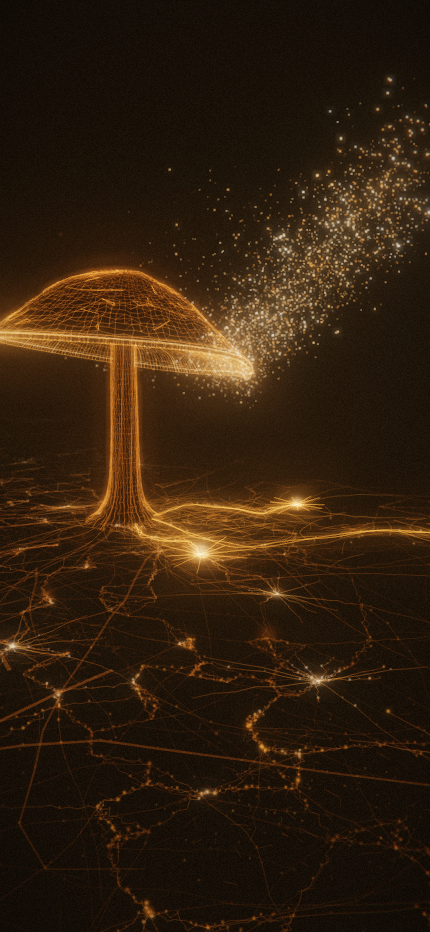
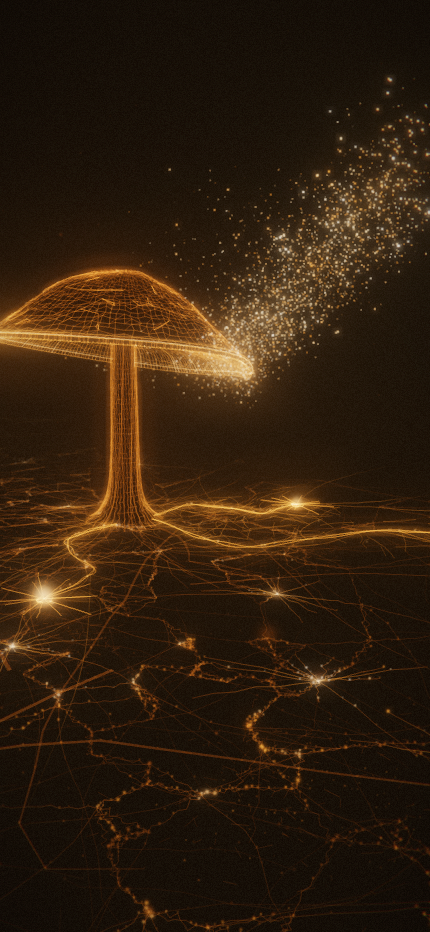
Hannah's three: ADOS goes left, the arrival becomes one arc, the descent one zoom-out
1. ADOS hub moved LEFT of the mushroom (her mockup): world (2.50, gy, 0.25)
   -> (2.45, gy, 2.85), departure azimuth 0.20 -> 0.86 — the primary route
   now runs out of the base past the left of the stem into the lower-left
   ground field. Route id, braid language, spokes, knot unchanged; hover,
   pulses and the lens focal handoff follow the geometry. Chip clears the
   copy by 70 px at 1280x800 and 91 px at 1440x900; in portrait the hub
   projects inside the copy block, so ADOS anchors per-orientation now
   (route-t 0.25, the Discord precedent) — in-frame, 31 px above the copy.

2. Mission->Inspire is ONE arc: arrival() no longer stages pin (s<0.22),
   constant radius, then push-in (s>0.80) — azimuth keeps its trapezoid +
   windowed breath, and radius/height/fov ride the SAME trapezoid while the
   gaze bows through the old PIN on a quadratic bezier. Dead band and both
   rest poses exact (mission + inspire goldens byte-identical); azimuth
   strictly monotonic. Peak gaze-yaw 557 -> 469 deg/p (~39 -> ~33 deg/s at
   ordinary scroll), peak pitch 117 -> 18 deg/p — the pin's nod is gone.

3. Inspire->Connect is one monotonic zoom-out: the exit keys no longer push
   in toward the stream (r 9.1 -> 5.6) before Connect widens back out.
   Subject distance now grows 8.11 -> 8.32 -> 8.48 -> 8.83 -> 9.32 -> 9.64
   -> 9.82 and fov 38 -> 56, strictly monotone in landscape, while the gaze
   slides off the cap down to the ground network. The portrait field key at
[…]

Changed region(s): [[0.0, 0.529, 0.9372, 0.6845], [0.9372, 0.5601, 1.0, 0.5912]]

diff --git a/journey/chapters/inspire/camera.js b/journey/chapters/inspire/camera.js
@@ -8,8 +8,11 @@
 //            visible spore stream. Authored in GESTURE-LOCAL u (0 = the
 //            mission rest / hero pose, 1 = the Inspire rest); the composer
 //            maps global p over [0 .. restProgress('inspire')] onto u.
-//            Gesture qualities (frozen at G2a/D16 review): no roll, early
-//            target pin, constant radius, gentle push-in in the last 20%.
+//            Gesture qualities (re-shaped 2026-08-04, Hannah: "one smooth
+//            arc"): no roll, and radius / height / fov / target all evolve
+//            TOGETHER with the azimuth swing on one shared trapezoid ease —
+//            no early target pin, no deferred push-in, no phase change
+//            anywhere between the hero pose and the Inspire rest.
 //
 //   keys     the rest hold + rest drift + the first exit-follow key, in
 //            LEG-LOCAL t over the chapter's route span (0.14..0.38 on the
@@ -30,10 +33,12 @@ const V = (x, y, z) => new THREE.Vector3(x, y, z);
 // stream stays in frame essentially the whole leg.
 export const INSPIRE = { az: 78 * DEG, r: 9.1, y: 3.25, target: V(1.15, 3.95, -0.40), fov: 38 };
 
-const SWING_Y = 2.9;              // Plate II: "cam y 2.25 -> ~2.9"
-const PIN = V(0.5, 3.4, -0.1);    // cap lock, biased a touch toward the stream
-                                  // side so the visible plume never leaves frame
-const PUSH_START = 0.80;          // the push-in lives ONLY in the last 20%
+// The gaze's mid-swing waypoint (was the old "early pin" target): the cap,
+// biased a touch toward the stream side so the visible plume never leaves
+// frame. Since the one-arc re-shape (2026-08-04) it is the CONTROL POINT of
+// a quadratic bezier hero.target -> INSPIRE.target — the gaze bows through
+// the cap continuously instead of locking onto it in the first 22%.
+const PIN = V(0.5, 3.4, -0.1);
 
 // Dead band at the head of the gesture: below this fraction of the arrival
 // the camera IS the hero pose exactly — what makes #/mission and a cold load
@@ -71,8 +76,6 @@ function azEase(s) {
     + ORBIT_BREATH.amp * Math.sin(2 * Math.PI * ORBIT_BREATH.cycles * s) * w;
 }
 
-const _ot = new THREE.Vector3();
-
 /** The arrival gesture. `u` is gesture-local (0 = mission rest, 1 = the
  *  Inspire rest); `hero` is the LIVE hero pose of whatever responsive
  *  composition booted (injected by the composer — the orbit must start from
@@ -80,16 +83,26 @@ const _ot = new THREE.Vector3();
 function arrival(u, out, hero) {
   let s = (u - ARRIVAL_DEAD) / (1 - ARRIVAL_DEAD);
   if (s < 0) s = 0;
+  // ONE shared progression (2026-08-04 re-shape): the azimuth keeps its
+  // trapezoid + windowed orbit-breath (azEase — strictly monotonic, breath
+  // zeroed at both ends), and radius, height, fov and gaze all ride the SAME
+  // trapezoid (trapEase, no breath — the dolly must not wobble). Position
+  // and gaze turn together the whole way: no pin phase, no push phase.
   const e = azEase(s);
+  const m = trapEase(s);
   const az = hero.az + (INSPIRE.az - hero.az) * e;
-  const pin = smooth01(s / 0.22);                              // target locks on the cap early
-  const push = smooth01((s - PUSH_START) / (1 - PUSH_START));  // deferred push-in
-  const lift = smooth01((s - 0.06) / 0.58);                    // gentle rise to swing height
-  const r = hero.r + (INSPIRE.r - hero.r) * push;              // CONSTANT radius until s = 0.8
-  const y = hero.y + (SWING_Y - hero.y) * lift + (INSPIRE.y - SWING_Y) * push;
+  const r = hero.r + (INSPIRE.r - hero.r) * m;
+  const y = hero.y + (INSPIRE.y - hero.y) * m;
   out.pos.set(Math.sin(az) * r, y, Math.cos(az) * r);
-  out.target.copy(_ot.lerpVectors(hero.target, PIN, pin).lerp(INSPIRE.target, push));
-  out.fov = hero.fov + (INSPIRE.fov - hero.fov) * push;
+  // Gaze: quadratic bezier hero.target -> INSPIRE.target bowed through PIN
+  // (the cap) — C1-continuous, endpoints exact, the plume framed mid-swing.
+  const w0 = (1 - m) * (1 - m), w1 = 2 * m * (1 - m), w2 = m * m;
+  out.target.set(
+    w0 * hero.target.x + w1 * PIN.x + w2 * INSPIRE.target.x,
+    w0 * hero.target.y + w1 * PIN.y + w2 * INSPIRE.target.y,
+    w0 * hero.target.z + w1 * PIN.z + w2 * INSPIRE.target.z,
+  );
+  out.fov = hero.fov + (INSPIRE.fov - hero.fov) * m;
   return out;
 }
 
@@ -104,15 +117,16 @@ export const CAMERA = {
   arrivalName,
   // --- INSPIRE rest, and the drift that holds it (D16 restage: the rest is
   //     on the STREAM side, az ~78 deg — pos = (sin az, ., cos az) * r) ---
-  // then: follow ONE plume backward + downward toward its release rim
-  // (GB-2.1, re-keyed for D16) — the guide plume is ArtCompute, the hero's
-  // own visible stream (cap az ~5.83, rim release ~(1.97, 3.0, -0.95)): the
-  // path descends along the stream toward its release point, so the cap
-  // climbs the frame and occludes the sky exactly as before, just from the
-  // stream side. (The descent continues in connect/camera.js.)
+  // then: ONE continuous widening toward the Connect ground rest (re-keyed
+  // 2026-08-04, Hannah: the old exit pushed IN toward the stream, r 9.1 ->
+  // ~5.6, and Connect pulled back OUT again — a felt zoom-in-then-out).
+  // From the rest the camera now sinks and recedes in a single monotone
+  // zoom-out: camera-to-subject distance and fov only ever grow, and the
+  // gaze slides off the cap down the stem toward the ground as the descent
+  // proceeds. (The widening continues seamlessly in connect/camera.js.)
   keys: [
-    { t: 0.5,                pos: V(8.901, 3.25, 1.892), tgt: V(1.15, 3.95, -0.40), fov: 38,   hold: true, note: 'inspire-rest' },   // p 0.260
-    { t: 0.7166666666666667, pos: V(8.300, 3.22, 1.500), tgt: V(1.30, 3.80, -0.50), fov: 38.5, note: 'inspire-rest-drift' },         // p 0.312
-    { t: 0.9249999999999999, pos: V(5.600, 3.05, 0.550), tgt: V(1.70, 3.30, -0.75), fov: 42 },                                       // p 0.362
+    { t: 0.5,                pos: V(8.901, 3.25, 1.892), tgt: V(1.15, 3.95, -0.40), fov: 38,   hold: true, note: 'inspire-rest' },   // p 0.260  d 8.11
+    { t: 0.7166666666666667, pos: V(8.950, 3.18, 2.150), tgt: V(1.10, 3.75, -0.55), fov: 39.5, note: 'inspire-rest-drift' },         // p 0.312  d 8.32
+    { t: 0.9249999999999999, pos: V(8.550, 2.95, 2.850), tgt: V(0.95, 2.90, -0.90), fov: 44 },                                       // p 0.362  d 8.48
   ],
 };

diff --git a/journey/chapters/connect/camera.js b/journey/chapters/connect/camera.js
@@ -2,16 +2,20 @@
 // legs; the director composes them per route.js).
 //
 // GROUND RESTAGE (16-connect-ground-restage.md §5): the leg no longer slips
-// under the rim into the gill chamber. From inspire/camera.js's last key
-// (p 0.362: pos (5.6, 3.05, 0.55), tgt (1.7, 3.3, -0.75), fov 42) the camera
-// sinks and widens OUTSIDE the rim to ground level, the gaze sliding off the
-// cap down the stem to the base and out across the ground as the network
-// starts to grow. The rest is the panoramic frame of doc §3: mushroom wholly
-// visible on the left third, the tendril network across the lower/middle
-// right two-thirds, camera low, gentle downward gaze. The exit follows the
-// tendrils home toward the trunk, ending near owned/camera.js's (re-authored)
-// entry — the cleanest narrative joint in the ride: after watching the
-// surface network, the camera follows it to the root and dives underground.
+// under the rim into the gill chamber. Re-keyed 2026-08-04 (Hannah: the
+// Inspire->Connect travel must read as ONE monotonic zoom-out): from
+// inspire/camera.js's last key (p 0.362: pos (8.55, 2.95, 2.85), tgt
+// (0.95, 2.9, -0.9), fov 44) the camera keeps receding and sinking OUTSIDE
+// the rim — camera-to-subject distance and fov only ever grow from the
+// Inspire rest to the Connect rest, no re-approach anywhere — while the
+// gaze slides off the cap down the stem to the base and out across the
+// ground as the network starts to grow. The rest is the panoramic frame of
+// doc §3: mushroom wholly visible on the left third, the tendril network
+// across the lower/middle right two-thirds, camera low, gentle downward
+// gaze. The exit follows the tendrils home toward the trunk, ending near
+// owned/camera.js's (re-authored) entry — the cleanest narrative joint in
+// the ride: after watching the surface network, the camera follows it to
+// the root and dives underground.
 //
 // Keys are authored in LEG-LOCAL t over the chapter's route span (0.38..0.60
 // on the shipped route; global p in comments) — never in global p, so
@@ -22,14 +26,15 @@ const V = (x, y, z) => new THREE.Vector3(x, y, z);
 
 export const CAMERA = {
   keys: [
-    // --- descent OUTSIDE the rim: sinking, widening, the gaze walking down
-    //     the stem toward the base; the first tendrils leave the base in
-    //     frame as the growth window opens (leg t 0.10) ---
-    { t: 0.13636363636363624, pos: V(6.000, 2.78, 1.900), tgt: V(1.05, 2.60, -0.90), fov: 47 },                                      // p 0.410
-    { t: 0.30000000000000004, pos: V(6.800, 2.52, 2.900), tgt: V(0.75, 1.55, -1.50), fov: 51 },                                      // p 0.446
-    { t: 0.409090909090909,   pos: V(7.350, 2.42, 3.700), tgt: V(0.55, 0.80, -2.05), fov: 54 },                                      // p 0.470
+    // --- descent OUTSIDE the rim: one continuous widening from the Inspire
+    //     rest (monotone subject-distance + fov — no re-approach), the gaze
+    //     walking down the stem toward the base; the first tendrils leave
+    //     the base in frame as the growth window opens (leg t 0.10) ---
+    { t: 0.13636363636363624, pos: V(8.200, 2.72, 3.300), tgt: V(0.75, 1.90, -1.35), fov: 48 },                                      // p 0.410  d 8.83
+    { t: 0.30000000000000004, pos: V(7.950, 2.55, 3.700), tgt: V(0.60, 1.10, -1.85), fov: 52 },                                      // p 0.446  d 9.32
+    { t: 0.409090909090909,   pos: V(7.750, 2.43, 3.950), tgt: V(0.50, 0.65, -2.15), fov: 54.5 },                                    // p 0.470  d 9.64
     // --- CONNECT rest: low panorama — mushroom left, network right ---
-    { t: 0.5,                 pos: V(7.600, 2.35, 4.100), tgt: V(0.45, 0.42, -2.35), fov: 56, hold: true, note: 'connect-rest' },    // p 0.490
+    { t: 0.5,                 pos: V(7.600, 2.35, 4.100), tgt: V(0.45, 0.42, -2.35), fov: 56, hold: true, note: 'connect-rest' },    // p 0.490  d 9.82
     { t: 0.6909090909090911,  pos: V(7.450, 2.34, 4.250), tgt: V(0.42, 0.43, -2.25), fov: 56, note: 'connect-rest-drift' },          // p 0.532
     // --- exit toward the trunk: the camera follows the tendrils home; the
     //     near-base stretch brightens (index.js uExit) as radius closes ---

diff --git a/journey/chapters/connect/tendrils.js b/journey/chapters/connect/tendrils.js
@@ -59,18 +59,20 @@ const sm = (a, b, x) => smooth01((x - a) / (b - a));
    (lower-centre-left of frame), Hivemind mid-frame upper-network,
    Discord far right. y is derived from the terrain law at build.
    ================================================================ */
-// Audit taste pass (2026-08-04): ADOS nudged −x (2.85 → 2.50) so its chip
-// clears the centred headline at 1280×800 (was 12 px above the copy top,
-// directly over the headline's centre; now ~23 px and off-centre) and the
-// ADOS/Hivemind pair reads wider centre-frame. Hivemind/Discord world
-// positions: a −z Hivemind nudge was tried and reverted (it pushed the
-// portrait chip into the right viewport edge); Hivemind takes a small −x
-// nudge instead (1.65 → 1.52), which lifts its portrait chip up-left and
-// opens the Hivemind/Discord gap at 375×812. Core scales raised ~1.35×
-// (with the resting-opacity lift in index.js) so each hub reads as a
-// destination-beacon at rest — controlled halo, not lens-flare.
+// ADOS moved LEFT of the mushroom (Hannah's mockup, 2026-08-04): the hub now
+// sits in the lower-left ground field — world (+x, +z) is the camera-left
+// foreground at the rest pose — with its own primary route running out of
+// the stipe base and past the LEFT of the stem. Chip lands clearly left of
+// the stem silhouette and fully clear of the centred copy block at 1280×800
+// and 1440×900 (the previous centre-frame spot put it under the headline).
+// Departure azimuth re-aimed to match (0.20 → 0.86); the braid/meander
+// language and the route id are unchanged. Hivemind/Discord keep their
+// audit-pass positions (1.65 → 1.38 −x nudge etc. — see git history).
+// Core scales ~1.35× (with the resting-opacity lift in index.js) so each
+// hub reads as a destination-beacon at rest — controlled halo, not
+// lens-flare.
 export const HUBS = {
-  ados:     { pos: new V3(2.50, 0, 0.25), az: 0.20, spokes: 13, coreScale: 0.46 },
+  ados:     { pos: new V3(2.45, 0, 2.85), az: 0.86, spokes: 13, coreScale: 0.46 },
   hivemind: { pos: new V3(1.38, 0, -3.05), az: -1.07, spokes: 11, coreScale: 0.40 },
   discord:  { pos: new V3(5.35, 0, -3.45), az: -0.57, spokes: 9,  coreScale: 0.36 },
 };
@@ -463,11 +465,14 @@ export function buildTendrils(group, U) {
     // narrow portrait frustum cannot always hold the hub itself, so a chip
     // may ride its route's in-frame stretch instead. The network is one
     // world-space build; only the ANCHOR is per-orientation.
-    // route-t 0.60 → 0.50 (audit taste pass): at 375×812 the t 0.60 anchor
-    // put Discord's chip 3 px under Hivemind's and its pill 10 px past the
-    // right viewport edge; t 0.40 overlapped the ADOS chip instead. t 0.50
-    // (with the Hivemind −x nudge above) clears chip, edge and copy.
-    const portAnchor = polyAt(R.poly, R.arcs, 0.50);
+    // Discord route-t 0.60 → 0.50 (audit taste pass): at 375×812 the t 0.60
+    // anchor put Discord's chip 3 px under Hivemind's and its pill 10 px past
+    // the right viewport edge; t 0.40 overlapped the ADOS chip instead.
+    // ADOS route-t 0.25 (left-of-stem move, 2026-08-04): the relocated hub
+    // projects INSIDE the portrait copy block (chip suppressed), so its chip
+    // rides the route's upper stretch down the left edge instead.
+    const PORT_T = { ados: 0.25, hivemind: 0.50, discord: 0.50 };
+    const portAnchor = polyAt(R.poly, R.arcs, PORT_T[R.id]);
     portAnchor.y = gy(portAnchor.x, portAnchor.z, 0.04);
     hubMeta.push({ id: R.id, pos: h.pos.clone(), along: hubAlong, route: ri, portAnchor });
 

diff --git a/journey/portrait.js b/journey/portrait.js
@@ -76,10 +76,13 @@ const KEYS = [
   // land fully inside at 430×932, above the bottom copy block.
   { p: 0.260, back: 1.60, rise: 0.60, truck: 0, tgtUp: 0.10, tgtRight: 1.05, fov: 14 },
 
-  // Ground-descent approach (D16 restage): the leg descends OUTSIDE the rim
-  // in open air, so the field can breathe earlier than the old slip-under —
-  // a light dolly-back keeps the cap inside the narrow frame on the way down.
-  { p: 0.410, back: 1.14, rise: 0.16, truck: 0, tgtUp: 0.12, tgtRight: 0, fov: 6 },
+  // Ground-descent approach (D16 restage; retuned 2026-08-04 for the
+  // monotone Inspire->Connect zoom-out): the landscape leg no longer pushes
+  // in toward the stream, so the old light back (1.14) here made the
+  // PORTRAIT travel re-approach mid-leg while the landscape widened. The
+  // back now eases 1.60 -> 1.55 -> 1.42 between the two rests so portrait
+  // subject-distance and fov grow monotonically with the landscape's.
+  { p: 0.410, back: 1.55, rise: 0.16, truck: 0, tgtUp: 0.12, tgtRight: 0, fov: 12 },
 
   // CONNECT (rest 0.49, ground panorama) — the tall frame stacks what the
   // wide frame spreads: mushroom high, network low. Dolly back to hold the

diff --git a/journey/chapters/connect/index.js b/journey/chapters/connect/index.js
@@ -91,6 +91,14 @@ export function createConnect(sceneApi) {
   Object.defineProperty(NODES, 'discord', {
     get() { return sceneApi.camera.aspect < 1 ? discordPort : net.hubMeta[2].pos; },
   });
+  // ADOS anchors per orientation too since its left-of-stem move (2026-08-04):
+  // in landscape the chip sits on the hub in the lower-left ground field; in
+  // portrait that world position projects inside the centred copy block, so
+  // the chip rides the route's upper stretch (tendrils.js PORT_T) instead.
+  const adosPort = net.hubMeta[0].portAnchor.clone();
+  Object.defineProperty(NODES, 'ados', {
+    get() { return sceneApi.camera.aspect < 1 ? adosPort : net.hubMeta[0].pos; },
+  });
   const NODE_IDS = [...HUB_IDS];          // narrative order = reveal order = tab order
   const _nw = new THREE.Vector3();
 

diff --git a/journey-v6-plan/16-connect-ground-restage.md b/journey-v6-plan/16-connect-ground-restage.md
@@ -438,3 +438,72 @@ spokes/knots (tier 0, rAlong 1.0) keep the arrival flare, secondaries
   shipped build's 3 px + 10 px edge-clip was not.
 - The p 0.63–0.69 bareness residual and the modest arrival flare stand
   as the builder left them.
+
+## Three approved changes (2026-08-04, Hannah's review of the shipped restage)
+
+**1 — ADOS hub LEFT of the mushroom (the mockup composition).** Hub world
+(2.50, gy, 0.25) → (2.45, gy, 2.85) — world (+x, +z) is the camera-left
+foreground at the rest pose — departure azimuth 0.20 → 0.86 so the primary
+route now leaves the stipe base and runs out past the LEFT of the stem into
+the lower-left ground field. Braid/meander language, spokes, knot, route id
+all unchanged (hover lift, pulses and the lens focal handoff follow the
+geometry; nodeWorld('ados') = (2.45, 0.017, 2.85)). Chip clearances at rest:
+1280×800 chip x 252–326 / y 594–617 vs copy block left edge 396 (70 px
+clear, chip ~145 px left of the stem-base projection at x 469); 1440×900
+chip 285–359 / 670–693 vs copy edge 450 (91 px clear); 375×812 the hub
+itself projects inside the portrait copy block, so ADOS now anchors
+per-orientation like Discord (tendrils.js PORT_T: route-t 0.25) — chip
+56–130 / 455–478, fully in-frame, 31 px above the copy top, no overlap with
+Hivemind (248@428) or Discord (256@459). Note: the ADOS route is now ~0.4
+world units longer than Hivemind's, so Hivemind's starburst ignites
+marginally before ADOS during growth — the stagger is still by construction.
+
+**2 — Mission→Inspire: ONE continuous arc.** arrival() re-shaped: the old
+staged gesture (target pin over s 0–0.22, constant radius, push-in + fov
+only past s 0.80, lift on its own curve) is replaced by one shared
+progression — azimuth keeps azEase (trapezoid + windowed orbit-breath,
+strictly monotonic), and radius, height, fov and gaze all ride the SAME
+trapezoid (trapEase, no breath on the dolly); the gaze is a quadratic
+bezier hero.target → INSPIRE.target bowed through the old PIN so the cap
+and plume stay framed mid-swing. No phase change anywhere. HARD constraints
+held: u ≤ ARRIVAL_DEAD is the hero pose EXACTLY (poses at p 0 and p 0.039
+identical; mission goldens byte-identical), u = 1 lands the Inspire rest
+exactly (INSPIRE constants untouched; inspire goldens byte-identical),
+azimuth strictly monotonic, no roll. Measured (401-sample scrub of the
+gesture span): desktop hero peak gaze-yaw 557 → 469 °/p (≈ old ~39 deg/s →
+~33 deg/s at the same ordinary scroll), peak pitch 117 → 18 °/p (the pin's
+early nod is gone); portrait hero yaw 482 → 440, pitch 223 → 64 °/p.
+
+**3 — Inspire→Connect: monotonic zoom-out.** The old exit pushed IN toward
+the stream (r 9.1 → 5.6, then Connect pulled back out to 8.6). Re-keyed:
+inspire drift/exit now recede (subject distance 8.11 → 8.32 → 8.48, fov
+38 → 39.5 → 44) and Connect's entry keys continue the same widening
+(d 8.83 → 9.32 → 9.64 → 9.82, fov 48 → 52 → 54.5 → 56) while the gaze
+slides off the cap (tgt y 3.95) down the stem to the ground network
+(tgt y 0.42). Both rest poses fixed (goldens byte-identical / connect pose
+confirmed). The portrait field key at p 0.410 was retuned to match (back
+1.14 → 1.55, fov 6 → 12 — the old value was authored for the inward path
+and made the portrait travel re-approach mid-leg). Measured (201-sample
+scrub, p 0.26–0.50): landscape subject-distance and fov STRICTLY monotone;
+portrait fov strictly monotone, distance monotone within a 0.026-world-unit
+flat spot (~0.2% of the 14-unit distance). Rates: landscape yaw 163 °/p
+(peak p 0.343) / pitch 107 (0.392); portrait 129 (0.413) / 115 (0.427) —
+all far under the ~1.2k threshold. Splice at p 0.38 is the same global
+spline as ever — position rate smooth through the boundary, no pose jump.
+
+**Gates.** Full 0→1→0 ride at ~0.043 p/s with console.error/warn hooks:
+0 entries, landscape and portrait (the two 'patch' errors in tab history
+remain the documented stale pre-fix entries). Instrumented reveal audit:
+forward reveal p 0.4016/0.4015 (land/port) with uGrow 0.0000, retire
+0.7066/0.7062 and re-arm 0.7024/0.7034 inside the Owned soil murk, reverse
+vanish 0.3968/0.3991 with uGrow 0 — no self-ignition, growth-from-base
+only. Hover with ados hot: uRouteAmp [1.55, 0.55, 0.55], focused pulse
+head travelling, eased return to [1,1,1]; #/connect/ados lands with the
+card open. debugState() at p 0.49: pose (7.6, 2.35, 4.1) fov 56, armed
+[connect], hotspots [ados, hivemind, discord]. 21 s held mid-growth +
+long rest parks: no TAA wash, no black frame. Goldens: pre-reshoot --check
+isolated the drift to the connect pair (MAE 2.56/2.25, all others 0.00);
+full set re-shot frozen at the final tree — mission/inspire/owned/final
+reproduced BYTE-IDENTICAL (git-clean), connect pair intentionally new
+(the ADOS move is the only visible rest-frame change), manifest provenance
+noted; --check at the final tree: worst MAE 0.00/255, PASS.
